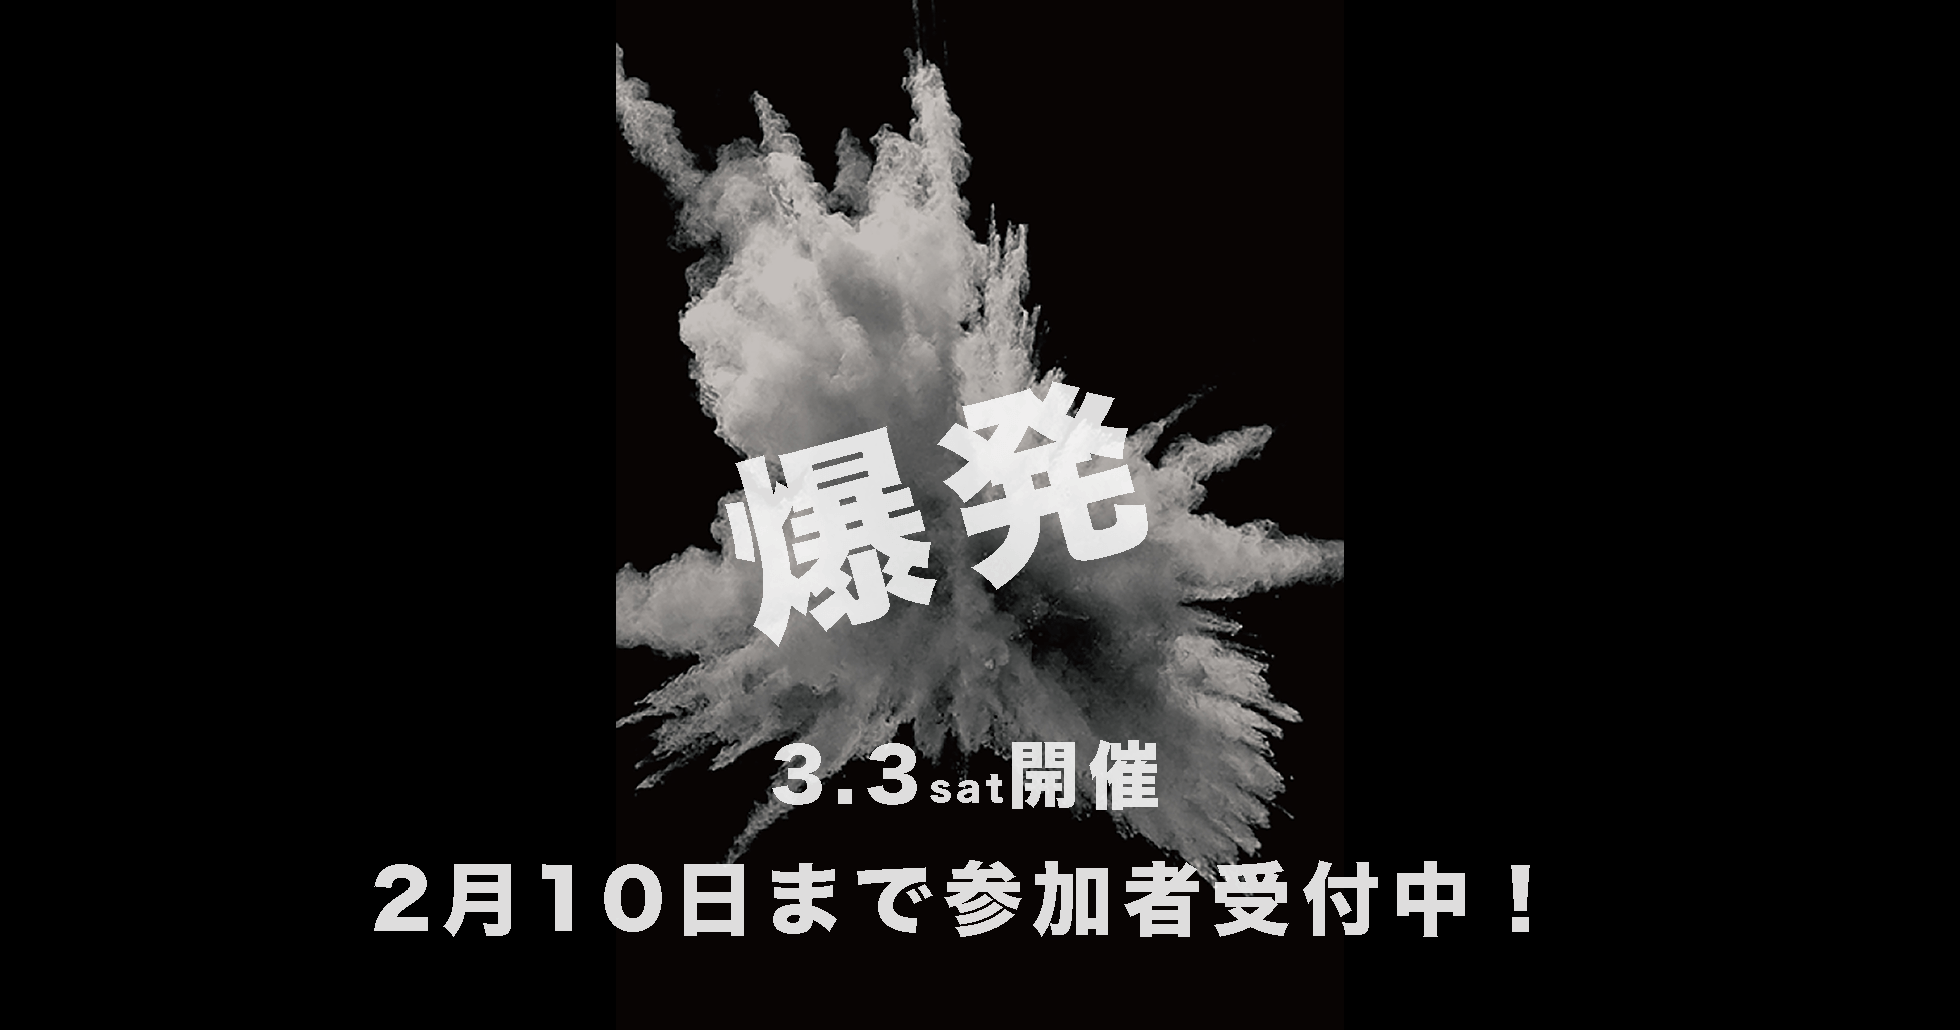
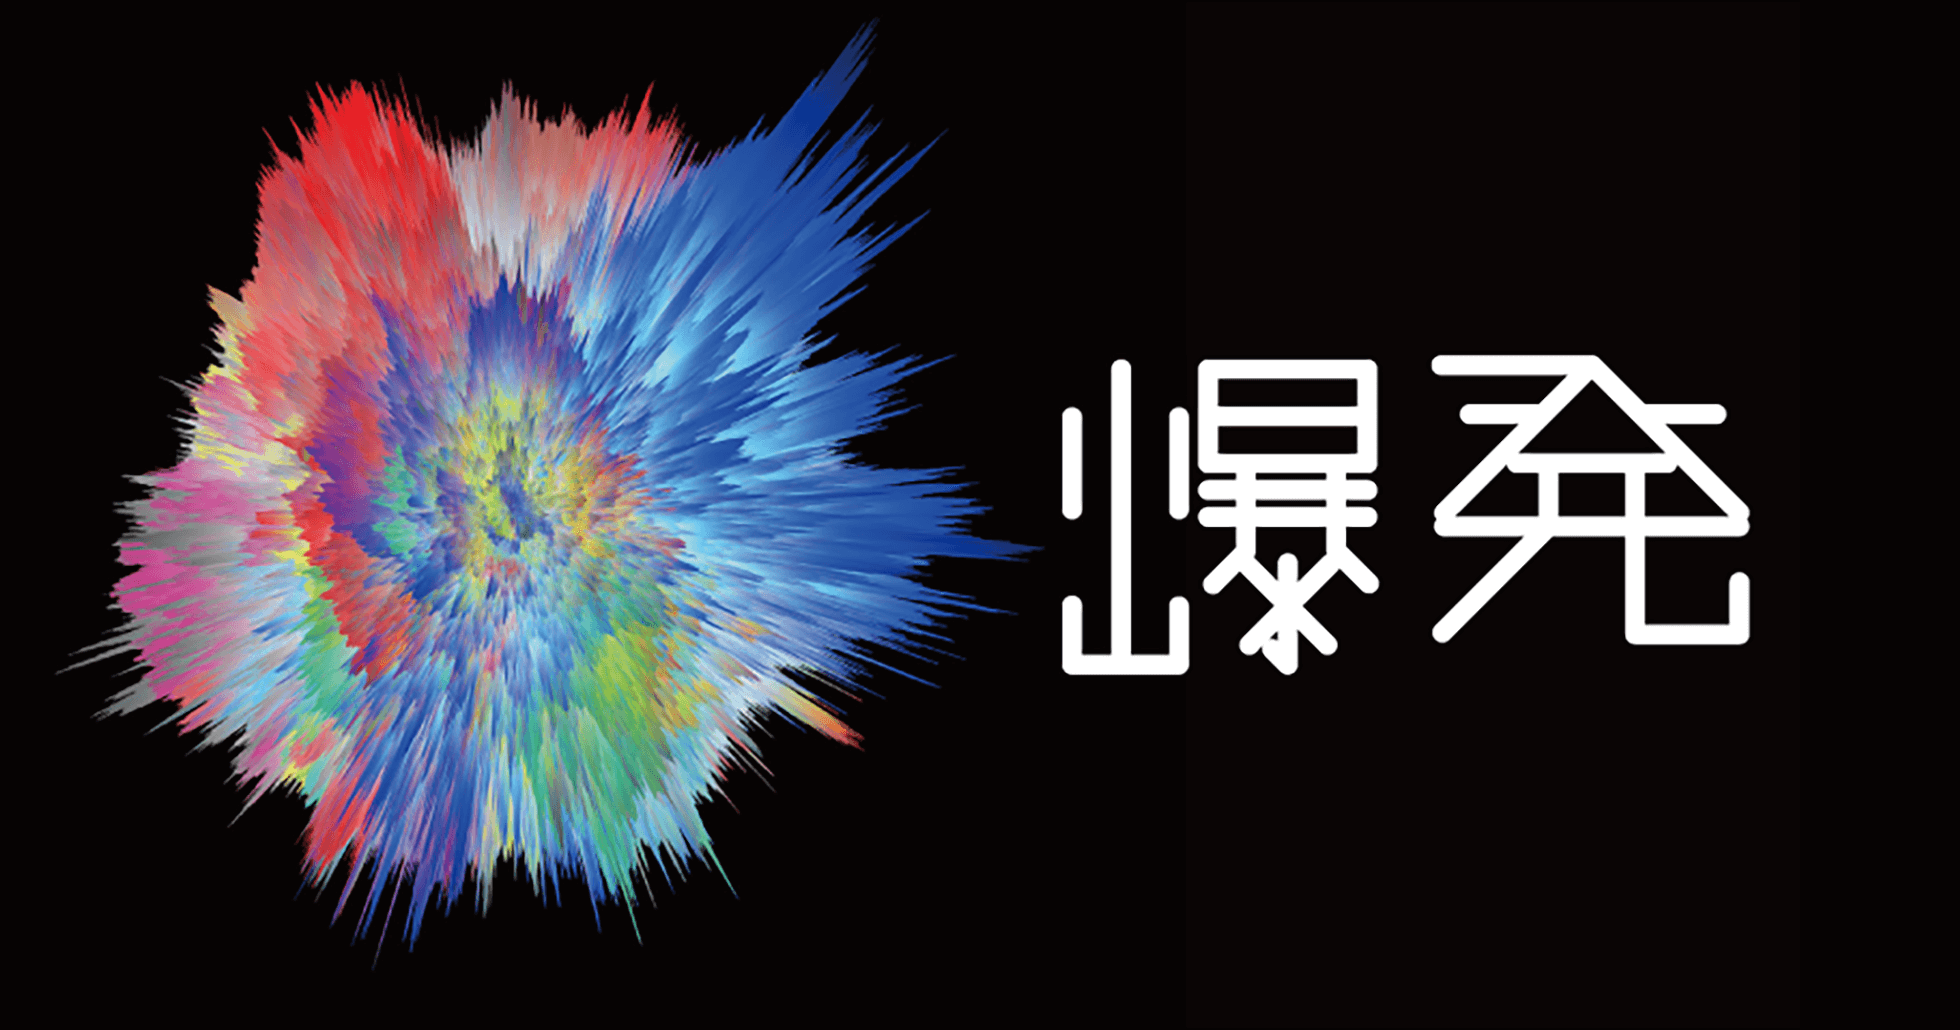
Add images Fix link,CSS

diff --git a/style.css b/style.css
@@ -310,6 +310,14 @@ main {
     transition: .32s;
 }
 
+
+/* Remove ? */
+
+.l-logo .banner:hover,
+.l-logo .banner:focus {
+    opacity: 1;
+}
+
 .article-cotent a:hover,
 .pagination a:hover,
 a.page-numbers:hover .article-cotent a:focus,
@@ -719,7 +727,8 @@ a.page-numbers:focus {
     line-height: 1.8;
 }
 
-.l-partner {
+.l-partner,
+.l-inkind {
     margin-bottom: 88px;
 }
 
@@ -1865,6 +1874,8 @@ input[type="submit"]:focus {
 }
 
 .l-title-blog {
+    position: relative;
+    z-index: 1000000;
     padding-left: 6%;
     color: #fff;
 }
@@ -2014,8 +2025,7 @@ input[type="submit"]:focus {
         left: -40px;
     }
     .l-title-blog {
-        background-color: #f6f6f6;
-        color: #333;
+        padding-top: 16px;
     }
     .l-articles__inner {
         position: relative;

diff --git a/partner.php b/partner.php
@@ -27,6 +27,11 @@ Template Name: PARTNER
                             <li class="banner">
                                 <a class="effect" href="http://www.fudai-kouenkai.osakafu-u.ac.jp/" target="_blank" itemprop="url"><img src="<?php bloginfo('template_directory'); ?>/images/fudai-kouenkai.png" alt="大阪府立大学 後援会" itemprop="image"><h3>大阪府立大学後援会</h3></a>
                             </li>
+                            <li class="banner">
+                                <a class="effect" href="http://www.osaka-jc.or.jp/" target="_blank" itemprop="url"><img src="<?php bloginfo('template_directory'); ?>/images/jci.png" alt="JCI" itemprop="image">
+                                    <h3>一般社団法人 大阪青年会議所</h3>
+                                </a>
+                            </li>
                         </ul>
                     </div>
                     <div class="l-inkind" itemscope itemtype="http://schema.org/makesOffer">
@@ -41,15 +46,13 @@ Template Name: PARTNER
                                 <a class="effect" href="http://www.senoya.jp/" target="_blank" itemprop="url"><img src="<?php bloginfo('template_directory'); ?>/images/senoya.png" alt="せのや" itemprop="image"><h3>株式会社せのや</h3></a>
                             </li>
                             <li class="banner">
-                                <a class="effect" href="http://www.cima-net.co.jp/" target="_blank" itemprop="url"><img src="<?php bloginfo('template_directory'); ?>/images/chibo.png" alt="千房" itemprop="image">
+                                <a class="effect" href="http://www.chibo.com/" target="_blank" itemprop="url"><img src="<?php bloginfo('template_directory'); ?>/images/chibo.png" alt="千房" itemprop="image">
                                 <h3>千房</h3>
                                 </a>
                             </li>
-                            <!--
                             <li class="banner">
-                                <a class="effect" href="" target="_blank" itemprop="url"><img src="<?php bloginfo('template_directory'); ?>/images/" alt="デジタルハリウッド" itemprop="image"></a>
+                                <a class="effect" href="http://www.dhw.co.jp/" target="_blank" itemprop="url"><img src="<?php bloginfo('template_directory'); ?>/images/dhw.png" alt="デジタルハリウッド" itemprop="image"><h3>デジタルハリウッド</h3></a>
                             </li>
--->
                             <li class="banner">
                                 <a class="effect" href="http://www.fujixerox.co.jp/" target="_blank" itemprop="url"><img src="<?php bloginfo('template_directory'); ?>/images/fujixerox.png" alt=".png 富士ゼロックス" itemprop="image">
                                     <h3>富士ゼロックス株式会社</h3>
@@ -60,7 +63,36 @@ Template Name: PARTNER
                                     <h3>Peatix</h3>
                                 </a>
                             </li>
-
+                            <li class="banner">
+                                <a class="effect" href="http://www.kushikatu-daruma.com/" target="_blank" itemprop="url"><img src="<?php bloginfo('template_directory'); ?>/images/daruma.png" alt="串かつだるま" itemprop="image">
+                                    <h3>串かつだるま</h3>
+                                </a>
+                            </li>
+                            <li class="banner">
+                                <a class="effect" href="http://brooklynroasting.jp/" target="_blank" itemprop="url"><img src="<?php bloginfo('template_directory'); ?>/images/brooklyn.png" alt="Brooklyn Roasting Company" itemprop="image">
+                                    <h3>Brooklyn Roasting Company</h3>
+                                </a>
+                            </li>
+                            <li class="banner">
+                                <a class="effect" href="https://www.brushup.net/" target="_blank" itemprop="url"><img src="<?php bloginfo('template_directory'); ?>/images/brushup.png" alt="デザインレビューツール Brushup" itemprop="image">
+                                    <h3>デザインレビューツール Brushup</h3>
+                                </a>
+                            </li>
+                            <li class="banner">
+                                <a class="effect" href="http://www.raple.co.jp/" target="_blank" itemprop="url"><img src="<?php bloginfo('template_directory'); ?>/images/raple.png" alt="株式会社ラプレ" itemprop="image">
+                                    <h3>株式会社ラプレ</h3>
+                                </a>
+                            </li>
+                        </ul>
+                    </div>
+                    <div class="l-logo" itemscope itemtype="http://schema.org/makesOffer">
+                        <h2 class="inkind-header effect">Logo Partner</h2>
+                        <ul class="list-banner">
+                            <li class="banner">
+                                <!--<a href="#" target="_blank" itemprop="url">--><img class="effect" src="<?php bloginfo('template_directory'); ?>/images/azconnect.png" alt="株式会社アズコネクト" itemprop="image">
+                                <h3>株式会社アズコネクト</h3>
+                                <!--                                </a>-->
+                            </li>
                         </ul>
                     </div>
 
